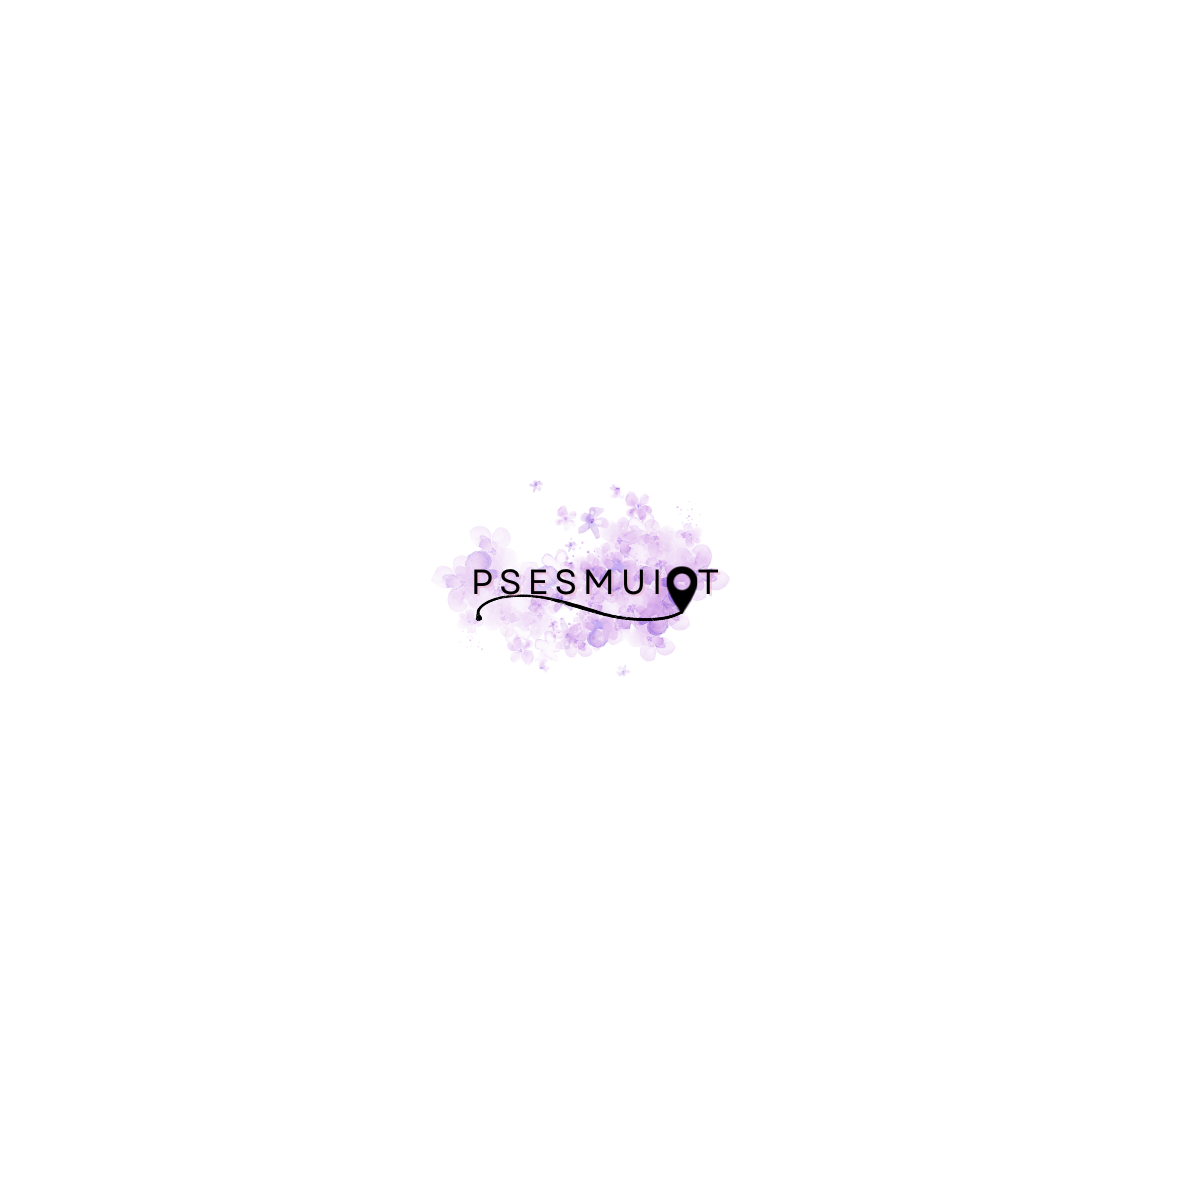
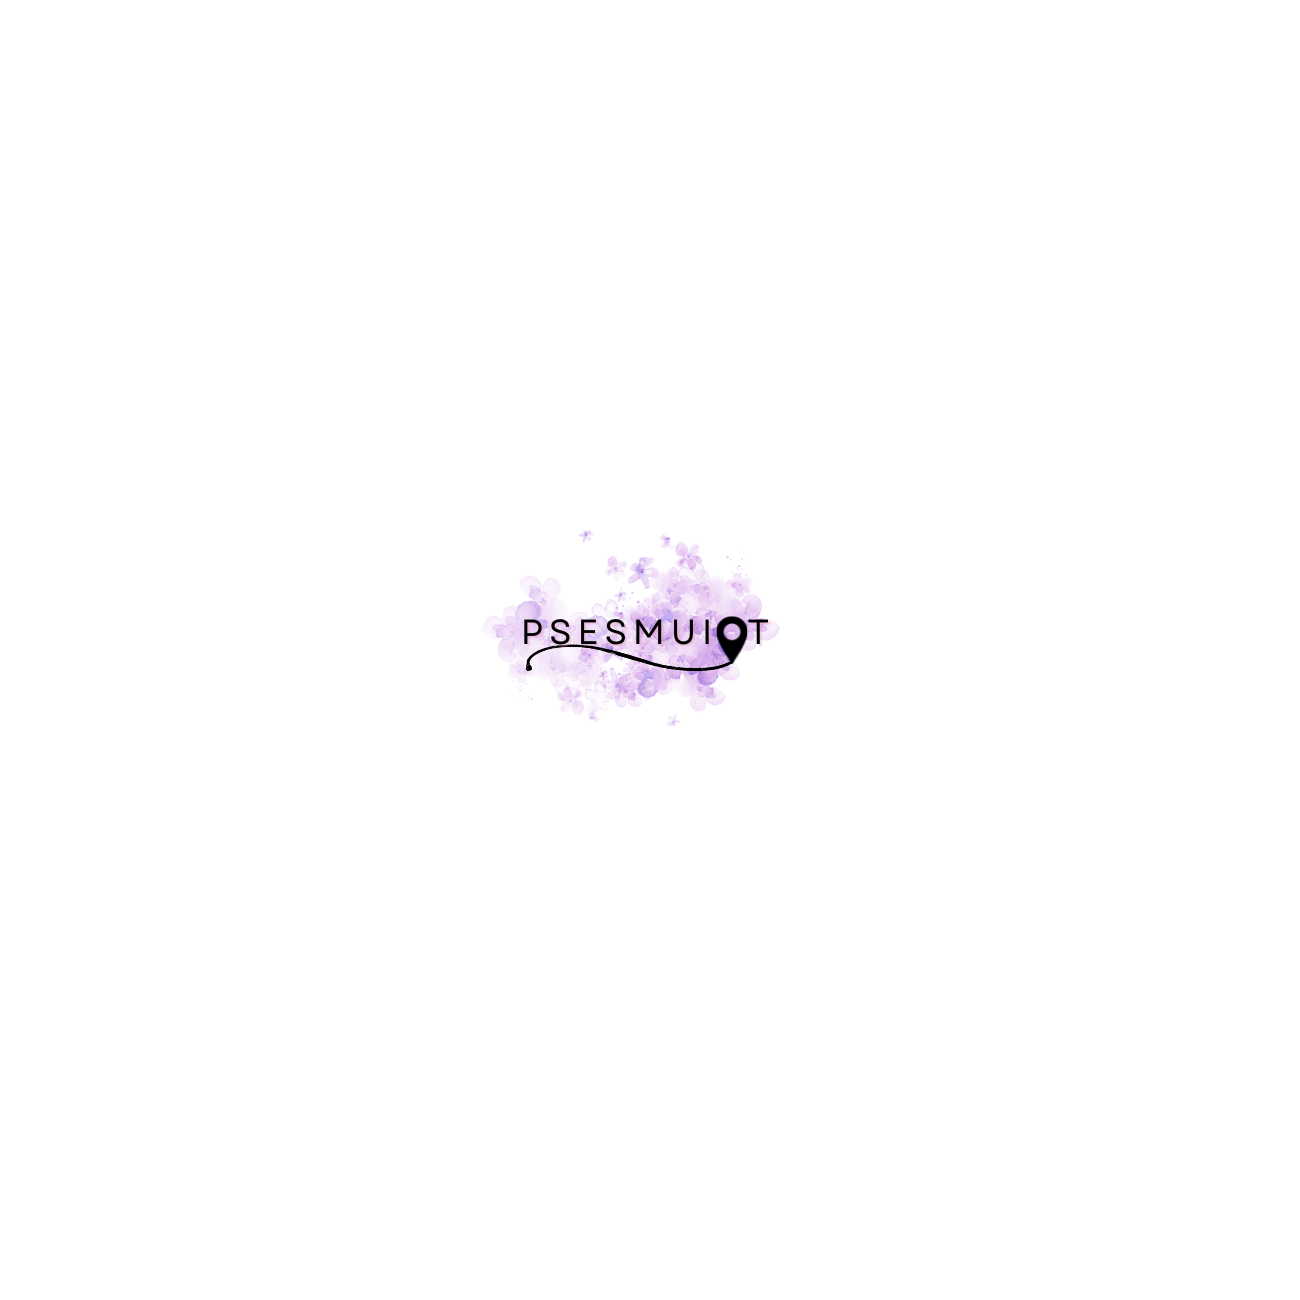
Cambios en encabezado

Changed region(s): [[0.37, 0.4008, 0.6167, 0.555]]

diff --git a/src/theme/GlobalTheme.tsx b/src/theme/GlobalTheme.tsx
@@ -23,7 +23,7 @@ export const GlobalStyles = StyleSheet.create({
     },
     logoContainer: {
         width: 750,
-        height: 110
+        height: 150
     },
     iconLocation: {
         alignItems: 'center',
